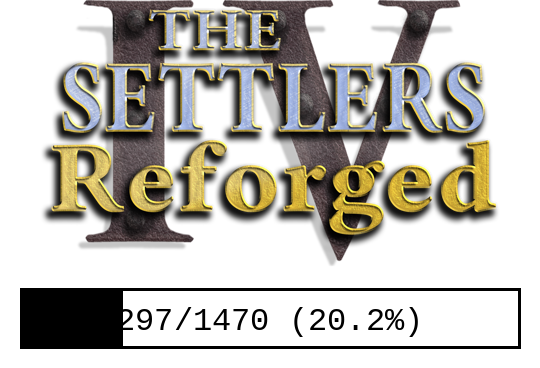
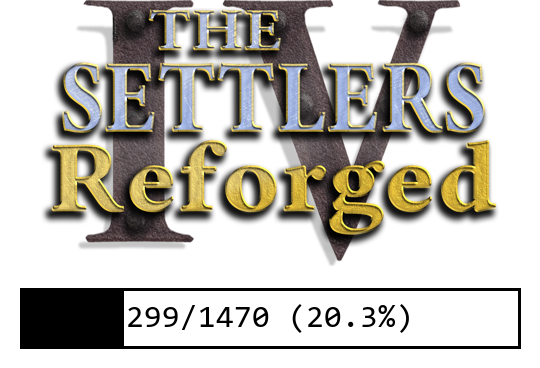
fixed missing outline in progress report

Changed region(s): [[0.5333, 0.8071, 0.8, 0.9266], [0.2074, 0.837, 0.5037, 0.8967]]

diff --git a/Decompilation/scripts/progress_report.py b/Decompilation/scripts/progress_report.py
@@ -4,10 +4,10 @@ Progress Report Generator
 Creates a visual progress report image showing decompilation progress.
 """
 
-import os
-from pathlib import Path
-from PIL import Image, ImageDraw, ImageFont
 import argparse
+import os
+from PIL import Image, ImageDraw, ImageFont
+from pathlib import Path
 
 
 def count_files_recursively(directory):
@@ -43,14 +43,14 @@ def calculate_progress(generated_dir, src_dir):
     # Get all files in generated directory
     generated_files = get_file_paths_recursively(generated_dir)
     total = len(generated_files)
-    
+
     if total == 0:
         return 0, 0, 0.0
-    
+
     # Count how many of those files exist in src
     completed = 0
     src_path = Path(src_dir)
-    
+
     for rel_path in generated_files:
         src_file = src_path / rel_path
         exists = src_file.exists()
@@ -59,13 +59,13 @@ def calculate_progress(generated_dir, src_dir):
 
         if exists:
             completed += 1
-    
+
     percentage = (completed / total) * 100 if total > 0 else 0
-    
+
     return completed, total, percentage
 
 
-def create_progress_image(header_image_path, completed, total, output_path, 
+def create_progress_image(header_image_path, completed, total, output_path,
                           bar_width=500, bar_height=60, padding=20):
     """
     Create a progress report image with header image and progress bar.
@@ -81,28 +81,28 @@ def create_progress_image(header_image_path, completed, total, output_path,
     """
     # Load header image
     header = Image.open(header_image_path)
-    
-    header = header.resize((bar_width - 2*padding, int(bar_width / header.width * header.height)))
+
+    header = header.resize((bar_width - 2 * padding, int(bar_width / header.width * header.height)))
 
     # Calculate dimensions
     img_width = max(header.width, bar_width + 2 * padding)
     bar_section_height = bar_height + 2 * padding
     img_height = header.height + bar_section_height
-    
+
     # Create new image with white background
-    img = Image.new('RGBA', (img_width, img_height), color=(0,0,0,0))
-    
+    img = Image.new('RGBA', (img_width, img_height), color=(0, 0, 0, 0))
+
     # Paste header image centered
     header_x = (img_width - header.width) // 2
     img.paste(header, (header_x, 0))
-    
+
     # Draw progress bar
     draw = ImageDraw.Draw(img)
-    
+
     # Calculate bar position (centered)
     bar_x = (img_width - bar_width) // 2
     bar_y = header.height + padding
-    
+
     # Draw bar background (white with black border)
     draw.rectangle(
         [(bar_x, bar_y), (bar_x + bar_width, bar_y + bar_height)],
@@ -110,22 +110,22 @@ def create_progress_image(header_image_path, completed, total, output_path,
         outline='black',
         width=3
     )
-    
+
     # Draw progress fill (black)
     if total > 0:
         progress_ratio = completed / total
         fill_width = int((bar_width - 6) * progress_ratio)  # -6 for border
         if fill_width > 0:
             draw.rectangle(
-                [(bar_x + 3, bar_y + 3), 
+                [(bar_x + 3, bar_y + 3),
                  (bar_x + 3 + fill_width, bar_y + bar_height - 3)],
                 fill='black'
             )
-    
+
     # Draw progress text
     percentage = (completed / total * 100) if total > 0 else 0
     progress_text = f"{completed}/{total} ({percentage:.1f}%)"
-    
+
     # Try to load a nice font, fall back to default if not available
     font = None
     font_candidates = [
@@ -136,46 +136,41 @@ def create_progress_image(header_image_path, completed, total, output_path,
         "/usr/share/fonts/truetype/dejavu/DejaVuSansMono.ttf",  # Linux DejaVu Sans Mono
         "Arial.ttf",  # Generic fallback
     ]
-    
+
     for font_path in font_candidates:
         try:
             font = ImageFont.truetype(font_path, 32)
             break
         except:
             continue
-    
+
     if font is None:
         font = ImageFont.load_default(32)
-    
+
     # Get text bounding box for centering
     bbox = draw.textbbox((0, 0), progress_text, font=font)
     text_width = bbox[2] - bbox[0]
     text_height = bbox[3] - bbox[1]
-    
+
     text_x = bar_x + (bar_width - text_width) // 2
     text_y = bar_y + (bar_height - text_height) // 2
-    
+
     # Draw text with outline for better visibility
     # Determine text color based on progress (white on black fill, black on white)
-    if total > 0 and (completed / total) > 0.5:
-        # If more than 50% filled, use both colors
-        # Draw black text on white part
-        outline_color = 'white'
-        text_color = 'black'
-        
-        # Draw white outline
-        for offset_x in [-2, -1, 0, 1, 2]:
-            for offset_y in [-2, -1, 0, 1, 2]:
-                if offset_x != 0 or offset_y != 0:
-                    draw.text((text_x + offset_x, text_y + offset_y), 
-                            progress_text, font=font, fill=outline_color)
-        
-        # Draw main text
-        draw.text((text_x, text_y), progress_text, font=font, fill=text_color)
-    else:
-        # Just draw black text for simplicity
-        draw.text((text_x, text_y), progress_text, font=font, fill='black')
-    
+
+    outline_color = 'white'
+    text_color = 'black'
+
+    # Draw white outline
+    for offset_x in [-2, -1, 0, 1, 2]:
+        for offset_y in [-2, -1, 0, 1, 2]:
+            if offset_x != 0 or offset_y != 0:
+                draw.text((text_x + offset_x, text_y + offset_y),
+                          progress_text, font=font, fill=outline_color)
+
+    # Draw main text
+    draw.text((text_x, text_y), progress_text, font=font, fill=text_color)
+
     # Save the image
     img.save(output_path)
     print(f"Progress report saved to: {output_path}")
@@ -217,22 +212,22 @@ def main():
         default=60,
         help='Height of progress bar in pixels (default: 60)'
     )
-    
+
     args = parser.parse_args()
-    
+
     # Resolve paths relative to script location
     script_dir = Path(__file__).parent
     generated_dir = (script_dir / args.generated_dir).resolve()
     src_dir = (script_dir / args.src_dir).resolve()
-    
+
     print(f"Counting files in generated: {generated_dir}")
     print(f"Checking against src: {src_dir}")
-    
+
     # Calculate progress
     completed, total, percentage = calculate_progress(generated_dir, src_dir)
-    
+
     print(f"\nProgress: {completed}/{total} files ({percentage:.1f}%)")
-    
+
     # Create progress image
     create_progress_image(
         args.header_image,
